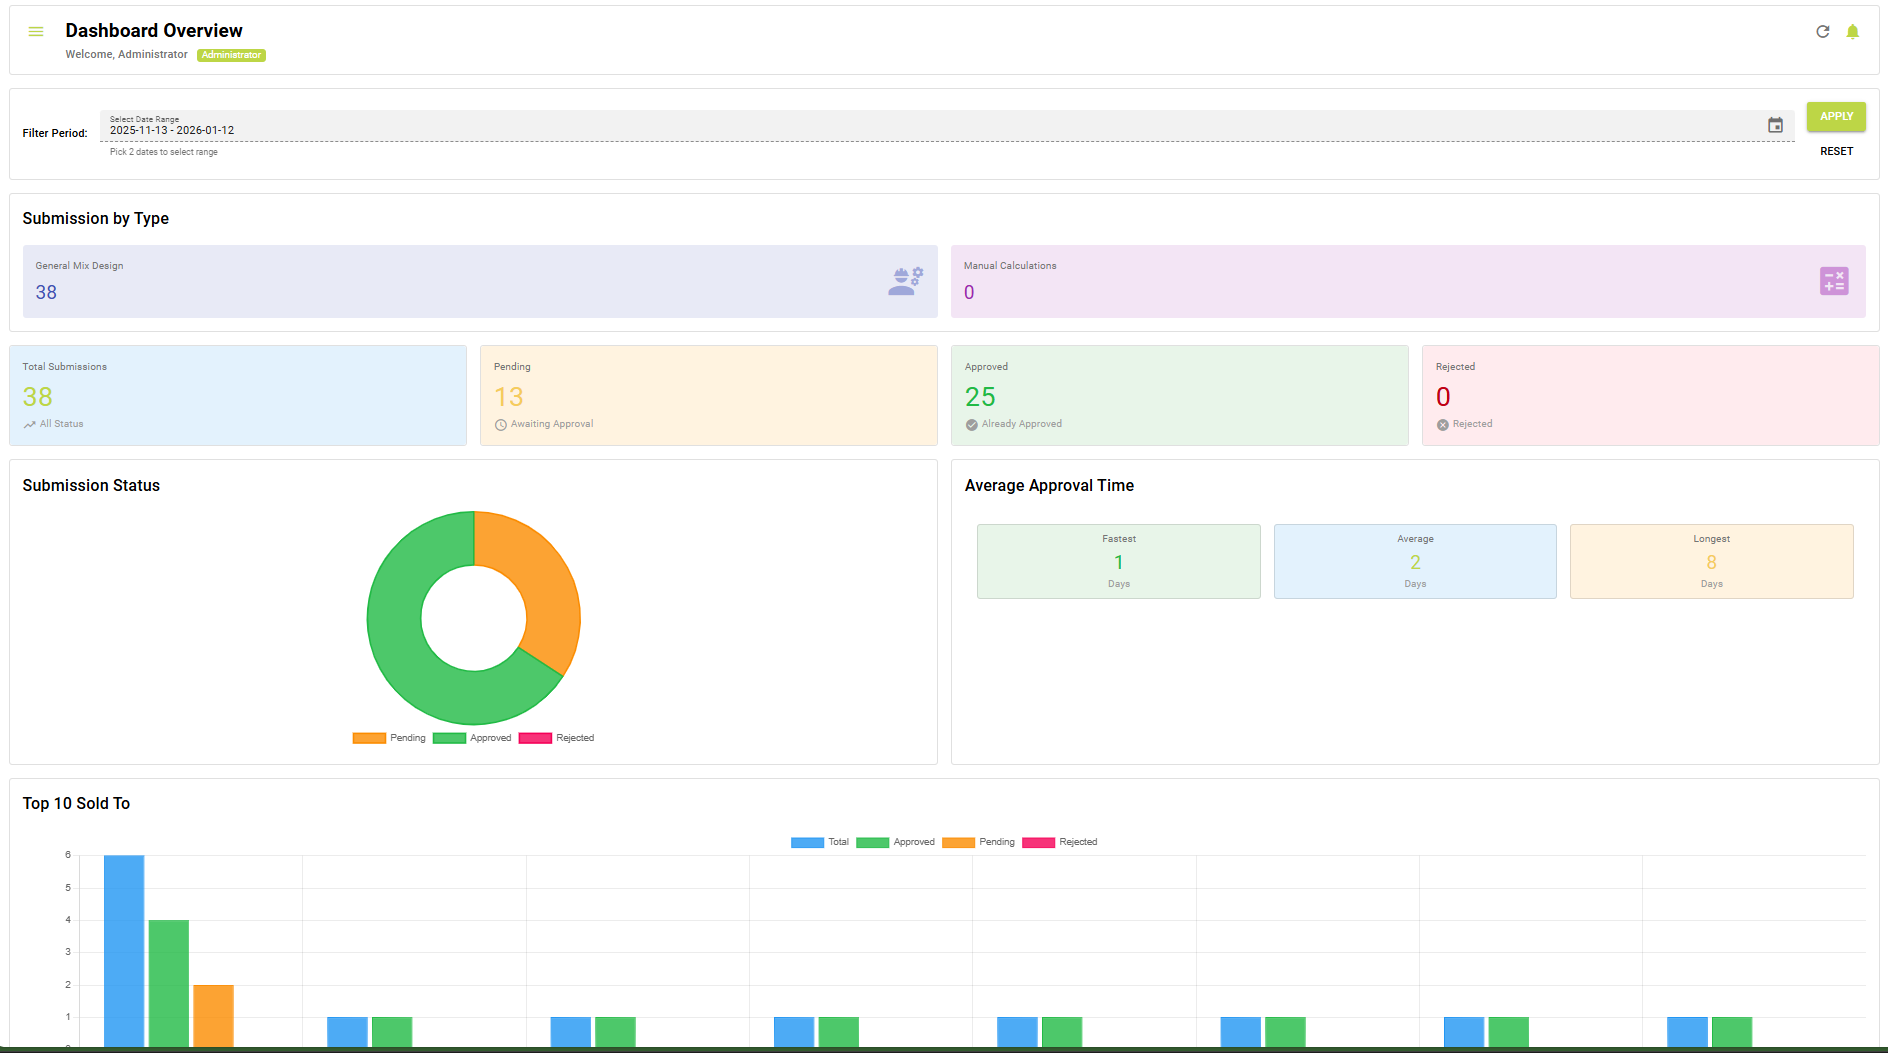
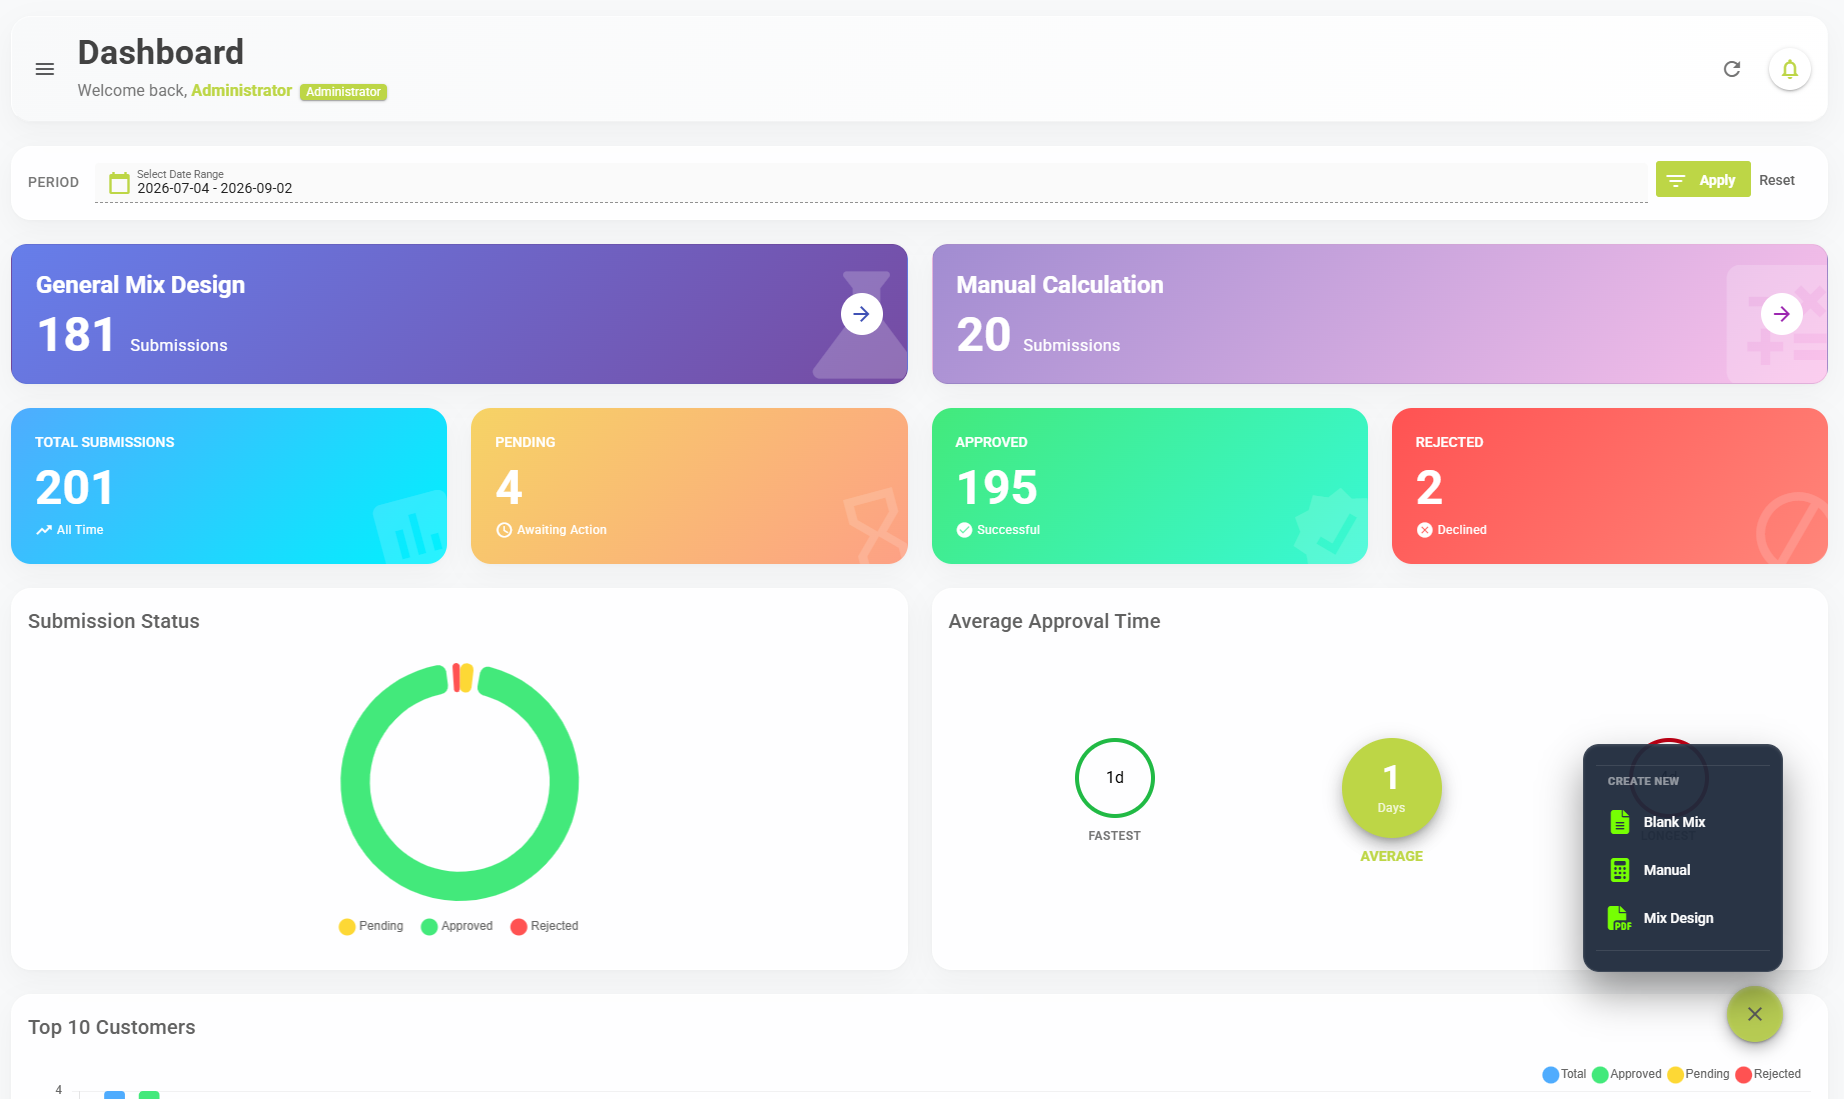
add some projects

diff --git a/src/content/projects/jdc.md b/src/content/projects/jdc.md
@@ -1,11 +1,11 @@
 ---
-title: "JDC - Web Application"
-description: "TypeScript-based web application deployed on Vercel, demonstrating modern frontend build and cloud deployment workflow."
+title: "J-D-C - Web & CMS"
+description: "Corporate web platform and CMS for j-d-c.com, providing website content management and web publishing capabilities."
 is_featured: true
 tech_stack: ["TypeScript", "NextJS", "TailwindCSS"]
-demo_url: "https://jdc-demo.vercel.app"
+demo_url: "https://j-d-c.com"
 github_url: "https://github.com/niemubarok/jdc"
 thumbnail: "/projects/thumbnails/jdc.png"
 gallery: ["/projects/thumbnails/jdc.png", "/projects/thumbnails/contraqs.png"]
-order: 6
+order: 2
 ---

diff --git a/src/content/projects/contraqs.md b/src/content/projects/contraqs.md
@@ -1,10 +1,10 @@
 ---
 title: "Contraqs - Contract Management System"
-description: "Web-based contract management system with modern architecture using distributed CouchDB. Designed for scalable deployment and operational reliability."
+description: "Business application for contract management, including frontend modules and system integrations."
 is_featured: true
 tech_stack: ["PWA", "Node.js", "AdonisJS", "CouchDB", "Docker", "Caddy"]
 demo_url: ""
 github_url: "https://github.com/niemubarok/contraqs"
 thumbnail: "/projects/thumbnails/contraqs.png"
-order: 1
+order: 9
 ---

diff --git a/src/content/projects/khairil-tour.md b/src/content/projects/khairil-tour.md
@@ -3,8 +3,8 @@ title: "Khairil Tour - Tourism Management Platform"
 description: "Tourism and travel management platform with integrated admin panel for managing tour packages, content, and resources."
 is_featured: false
 tech_stack: ["Laravel", "Filament", "PHP"]
-demo_url: null
+demo_url: "https://khairiltour.com"
 github_url: "https://github.com/niemubarok/khairil-tour"
-thumbnail: ""
+thumbnail: "/projects/thumbnails/khairiltour.png"
 order: 4
 ---

diff --git a/src/content/projects/tax-sheet.md b/src/content/projects/tax-sheet.md
@@ -1,0 +1,10 @@
+---
+title: "TaxSheet - Tax Document Extraction & Excel Consolidation"
+description: "Document-processing application that extracts tax document data and consolidates multiple tax documents into a single Excel file, reducing manual data entry and preparation work."
+is_featured: true
+tech_stack: ["Document Processing", "Excel", "Python"]
+demo_url: ""
+github_url: ""
+thumbnail: "/projects/thumbnails/taxsheet.png"
+order: 10
+---

diff --git a/src/content/projects/fiqih-plant.md b/src/content/projects/fiqih-plant.md
@@ -1,6 +1,6 @@
 ---
-title: "Fiqih Plant - WordPress E-commerce Platform"
-description: "E-commerce website built on WordPress and WooCommerce with full shopping cart, checkout system, and PayPal payment gateway integration."
+title: "Fiqih Plant - E-commerce"
+description: "WooCommerce storefront and web application work for an e-commerce platform."
 is_featured: true
 tech_stack: ["WordPress", "WooCommerce", "PHP", "JavaScript"]
 demo_url: null

diff --git a/src/content/projects/sagha-news.md b/src/content/projects/sagha-news.md
@@ -1,0 +1,11 @@
+---
+title: "SaghaNews - News Website & CMS"
+description: "News platform and CMS for managing and publishing media content, including content administration and website workflows for saghanews.com."
+is_featured: true
+tech_stack: ["CMS", "Web", "JavaScript"]
+demo_url: "https://saghanews.com"
+github_url: ""
+thumbnail: "/projects/thumbnails/saghanews.png"
+gallery: ["/projects/gallery/saghanews/"]
+order: 1
+---

diff --git a/src/content/projects/saida.md b/src/content/projects/saida.md
@@ -1,0 +1,10 @@
+---
+title: "SAIDA SBI AI Data Assistant"
+description: "AI-assisted data analysis platform concept integrating Excel, CSV, and PDF sources with DuckDB and PostgreSQL, featuring dashboard-style visualization and a service-oriented LLM architecture."
+is_featured: true
+tech_stack: ["AI", "DuckDB", "PostgreSQL", "Data Analysis"]
+demo_url: ""
+github_url: ""
+thumbnail: ""
+order: 13
+---

diff --git a/src/content/projects/sparta.md b/src/content/projects/sparta.md
@@ -1,0 +1,10 @@
+---
+title: "SPARTA - Parking Management System"
+description: "Desktop parking management system covering entry gate, exit gate, dashboard, reports, and ALPR/ANPR workflows. Built with Python and integrated with CouchDB and Raspberry Pi components."
+is_featured: true
+tech_stack: ["Python", "CouchDB", "Raspberry Pi", "ALPR"]
+demo_url: ""
+github_url: ""
+thumbnail: ""
+order: 12
+---

diff --git a/src/content/projects/cloud-menu-admin.md b/src/content/projects/cloud-menu-admin.md
@@ -1,6 +1,6 @@
 ---
-title: "Cloud Menu Admin Dashboard"
-description: "Admin dashboard for managing menu items in a cloud-based menu system. Focused on usability and operational efficiency. Private repository."
+title: "Cloud Menu Admin"
+description: "Vue.js administrative dashboard for operational management workflows."
 is_featured: false
 tech_stack: ["Vue.js"]
 demo_url: null

diff --git a/src/content/projects/oubama.md b/src/content/projects/oubama.md
@@ -1,0 +1,10 @@
+---
+title: "Oubama - Outlook Backup Manager"
+description: "Desktop utility built with Go and Wails for managing and backing up Outlook mailbox data, designed to simplify local email backup and archive workflows."
+is_featured: false
+tech_stack: ["Go", "Wails", "Desktop"]
+demo_url: ""
+github_url: ""
+thumbnail: "/projects/thumbnails/oubama.png"
+order: 11
+---

diff --git a/src/content/projects/mixsure.md b/src/content/projects/mixsure.md
@@ -1,0 +1,10 @@
+---
+title: "Mixsure - Concrete Price Calculator"
+description: "PWA application for concrete mix-design price calculation with matrix-based approval workflows."
+is_featured: true
+tech_stack: ["PWA", "JavaScript", "Web"]
+demo_url: ""
+github_url: ""
+thumbnail: "/projects/thumbnails/mixsure.png"
+order: 5
+---

diff --git a/src/content/projects/convex.md b/src/content/projects/convex.md
@@ -6,5 +6,5 @@ tech_stack: ["WEB", "NEXTJS", "TypeScript"]
 demo_url: "https://minerba-convex.vercel.app/"
 github_url: "https://github.com/niemubarok/convex"
 thumbnail: "/projects/thumbnails/convex.png"
-order: 1
+order: 3
 ---
